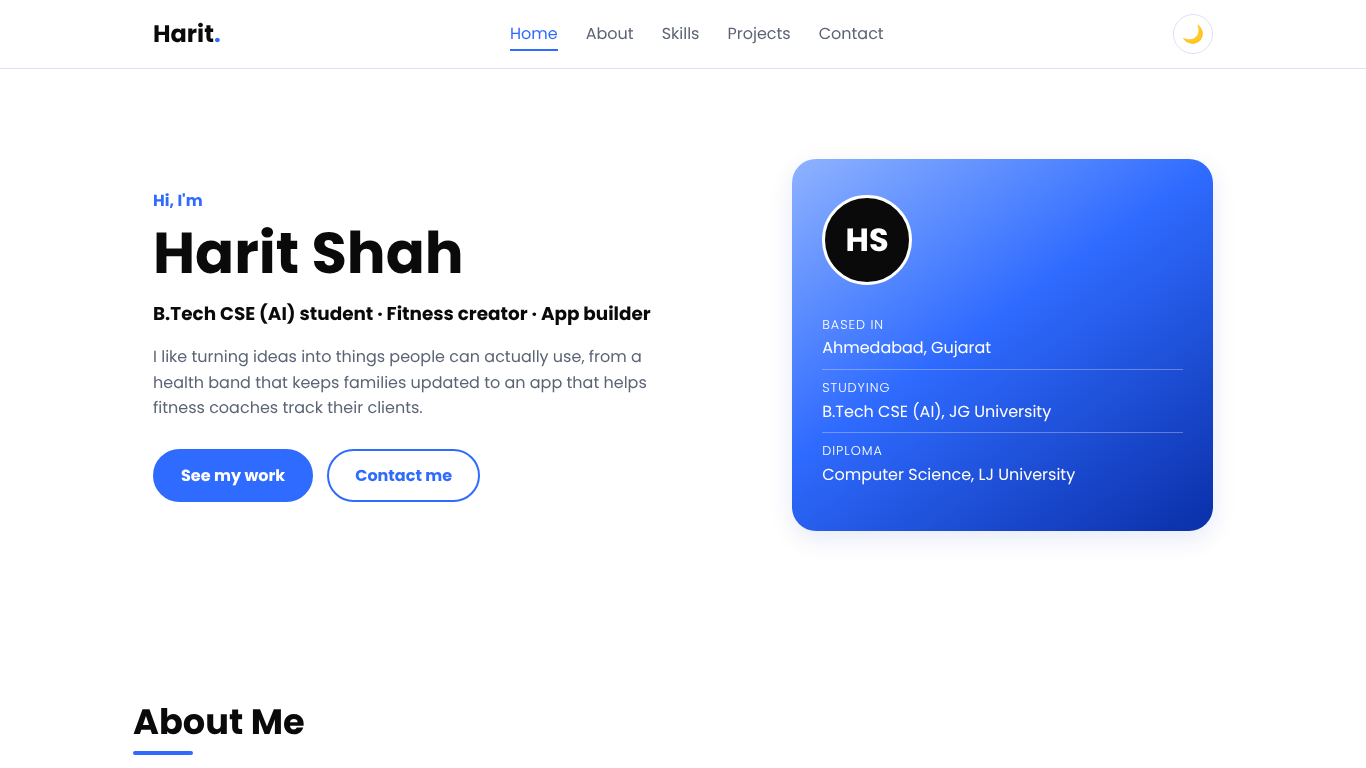
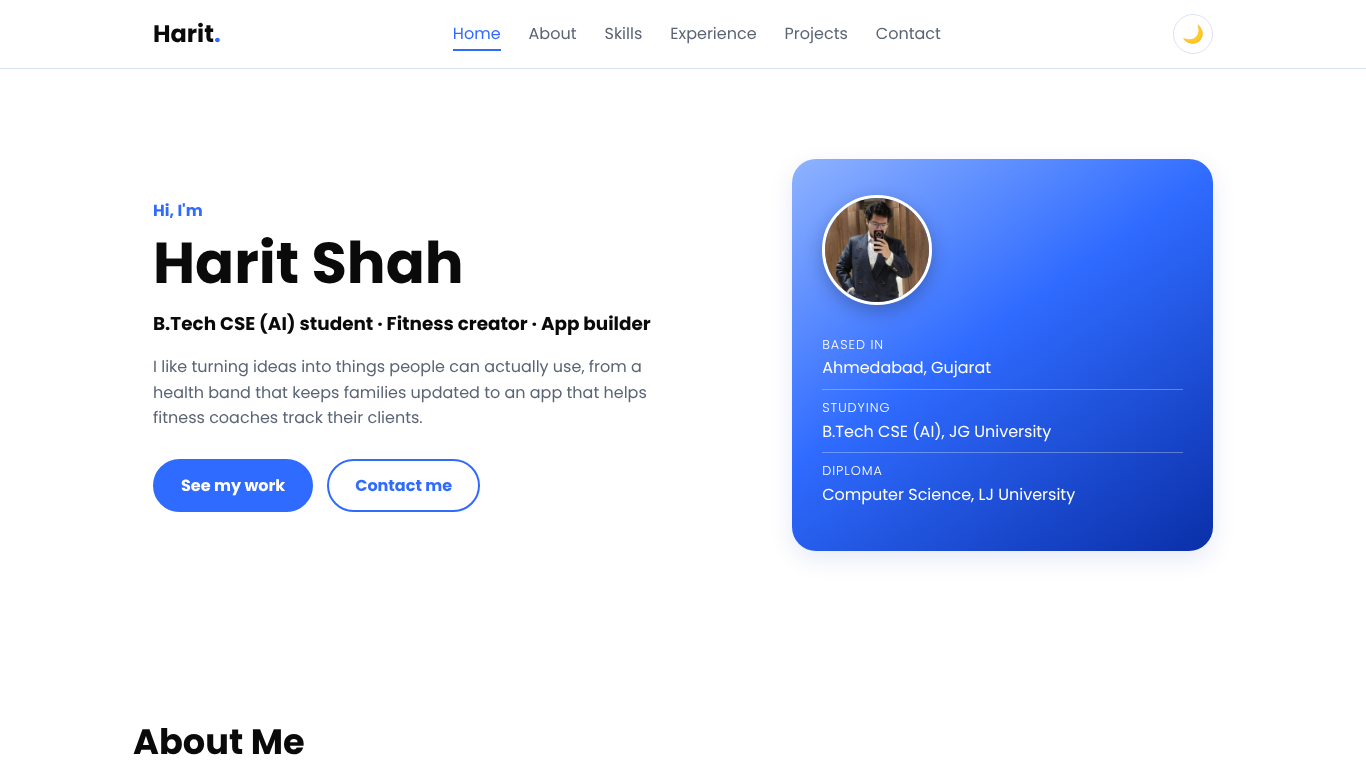
Updated README and screenshots
Claude-Session: https://claude.ai/code/session_01YBRURWrAYxrxmQbcTwEnUH

diff --git a/README.md b/README.md
@@ -1,7 +1,7 @@
 # Harit Shah – Personal Portfolio
 
 My personal portfolio website, made for the **Web Technology** portfolio project (B.Tech CSE-AI).
-It introduces me, lists my skills, shows my projects (HOOP, DECLYF and my @notsoharit fitness content) and has a contact form.
+It introduces me, lists my skills, shows my projects (HOOP, DECLYF, VizualZ Media, Stitch Merchandise and my @notsoharit fitness content) and has a contact form.
 
 🔗 **Live site:** https://harit23.github.io/Harit_Shah_268225_Portfolio/
 
@@ -13,7 +13,7 @@ It introduces me, lists my skills, shows my projects (HOOP, DECLYF and my @notso
 - **About Me** – my background in robotics, my diploma and my fitness page
 - **Skills** – web, programming & AI, tools, business (SAP, Advanced Excel, law basics) and creative skills
 - **Experience** – a timeline of my workshops, internship and achievements
-- **Projects** – HOOP, DECLYF and @notsoharit, with filter buttons
+- **Projects** – HOOP, DECLYF, VizualZ Media, Stitch Merchandise and @notsoharit, with filter buttons
 - **Contact** – a contact form that is checked before it is sent
 
 ## Technologies used
@@ -51,6 +51,7 @@ Harit_Shah_268225_Portfolio/
 ├── index.html
 ├── style.css
 ├── script.js
+├── images/
 ├── README.md
 └── screenshots/
 ```
